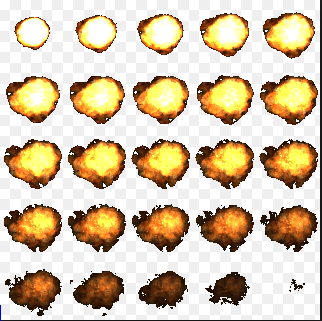
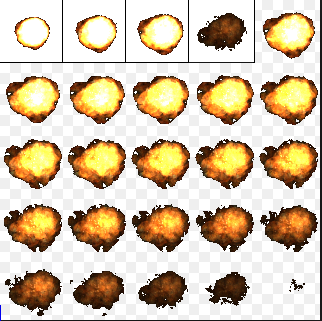
enemy now explodes upon death and is permanently removed from game

diff --git a/Zeldaesque/src/com/zeldashtuff/jshiraef/Boss.java b/Zeldaesque/src/com/zeldashtuff/jshiraef/Boss.java
@@ -5,21 +5,18 @@ import org.newdawn.slick.Color;
 import org.newdawn.slick.Graphics;
 import org.newdawn.slick.Image;
 import org.newdawn.slick.SlickException;
+import org.newdawn.slick.SpriteSheet;
 import org.newdawn.slick.geom.Vector2f;
 
 public class Boss {
 
-	Animation boss, pacing, kaboom;
+	Animation boss, pacing, kaboom, fullKaboom;
 	
 	Image bossPic1 = new Image("res/girlBoss.png");
 	Image bossPic2 = new Image("res/girlBoss2.png");
 	Image bossPic3 = new Image("res/girlBoss3.png");
 	
-	Image explosions = new Image("res/explodingSheet.png");
-	
-	Image explodePic1 = explosions.getSubImage(1, 1, 64, 64);
-	Image explodePic2 = explosions.getSubImage(64, 64, 64, 64);
-	Image explodePic3 = explosions.getSubImage(128, 128, 64, 64);
+	Image fullExplosionSpriteSheet = new Image("res/explodingSheet2.png");
 	
 	
 	
@@ -28,7 +25,7 @@ public class Boss {
 	public boolean hit = false;
 	public boolean dead = false;
 	
-	public boolean explode = true;
+	public boolean destroyed = false;
 
 	public float x = 250;
 	public float y = 375;
@@ -55,15 +52,15 @@ public class Boss {
 	public static int direction = 1;
 	
 	int[] bossDuration = {300, 300, 300};
-	int[] explosionDuration = {150, 150, 150};
+	int[] explosionDuration = {150, 150, 250, 250};
 	
 	
 	public Boss(Dungeon dungeon) throws SlickException {
 		
 		Image[] bossPacing = {bossPic1, bossPic2, bossPic3};
-		Image[] explode = {explodePic1, explodePic2, explodePic3};
+
 		pacing = new Animation(bossPacing, bossDuration, true);
-		kaboom = new Animation(explode, explosionDuration, true);
+		fullKaboom = new Animation(new SpriteSheet(fullExplosionSpriteSheet, 64, 64), 100);
 		
 		boss = pacing;
 		
@@ -73,8 +70,7 @@ public class Boss {
 	public void render(Graphics g) {
 		
 		
-		bossCenterX = x + bossPic1.getHeight()/2;
-		bossCenterY = y + bossPic2.getWidth()/2;
+		
 		
 		
 //		g.drawString(" Boss's X: " + bossTileX +  "\n Boss's Y: " + bossTileY, 700, 100);
@@ -84,12 +80,19 @@ public class Boss {
 //		g.drawString("distance to Player: " + distanceToPlayer, 300, 600);
 
 		//if(!hit)
-		if(!dead)
-		boss.draw(x, y);
+		if(!destroyed) {
+			bossCenterX = x + bossPic1.getHeight()/2;
+			bossCenterY = y + bossPic2.getWidth()/2;
+			if(!dead) {
+				drawBossHealthBar(g);
+				boss.draw(x, y);
+			}
+			else explode();
+			}
 		
 		
 		
-		drawBossHealthBar(g);
+		
 		
 		
 	}
@@ -97,7 +100,7 @@ public class Boss {
 	public void update(int delta) {
 		
 		
-		
+		if(!destroyed) {
 		Vector2f distanceToPlayer = new Vector2f(bossCenterX - dungeon.player.playerCenterX, bossCenterY - dungeon.player.playerCenterY);
 		
 		actualSeparation = Math.sqrt(distanceToPlayer.x * distanceToPlayer.x + distanceToPlayer.y * distanceToPlayer.y);
@@ -119,7 +122,7 @@ public class Boss {
 				else if (distanceToPlayer.y > 0)
 					y -= .07;
 				
-//				Player.sprite = Player.hit;
+				Player.sprite = Player.hit;
 			}
 			
 			else direction = 2;
@@ -143,17 +146,17 @@ public class Boss {
 					direction = 2;
 			
 			break;
+		}
+	
+			
+		}
+		else {
+			bossCenterX = -100;
+			bossCenterY = -100;
 			
 		}
 		
 		if(bossMaxHealth > 3) {
-			boss = kaboom;
-			try {
-				Thread.sleep(1000);
-			} catch (InterruptedException e) {
-				// TODO Auto-generated catch block
-				e.printStackTrace();
-			}
 			dead = true;
 		}
 		
@@ -167,6 +170,17 @@ public class Boss {
 		g.setColor(healthBarColor);
 		g.fillRect(x, y, bossHealthBarWidth * healthScale, bossHealthBarHeight);
 		g.drawString("Boss's HP", x, y - 20);
+	}
+	
+	public void explode() {
+		fullKaboom.setLooping(false);
+		fullKaboom.draw(x, y);
+		
+		System.out.println("explode frame is " + fullKaboom.getFrame());
+		
+		if (fullKaboom.getFrame() == 19)
+			destroyed = true;
+			
 	}
 	
 	public float getBossX() {
